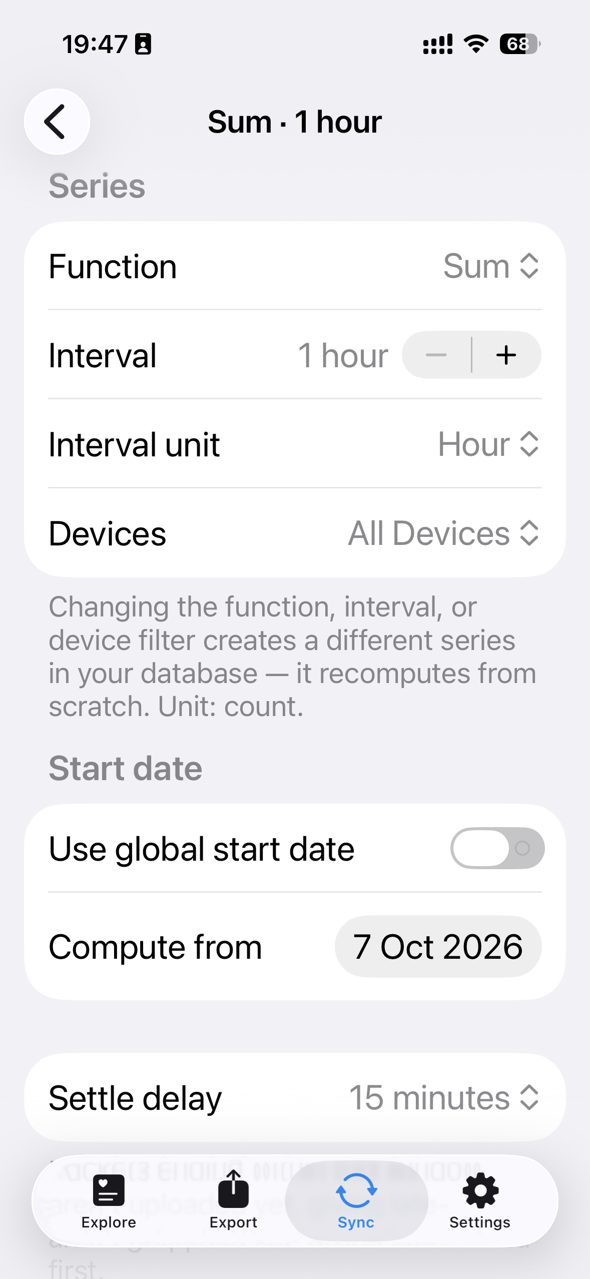
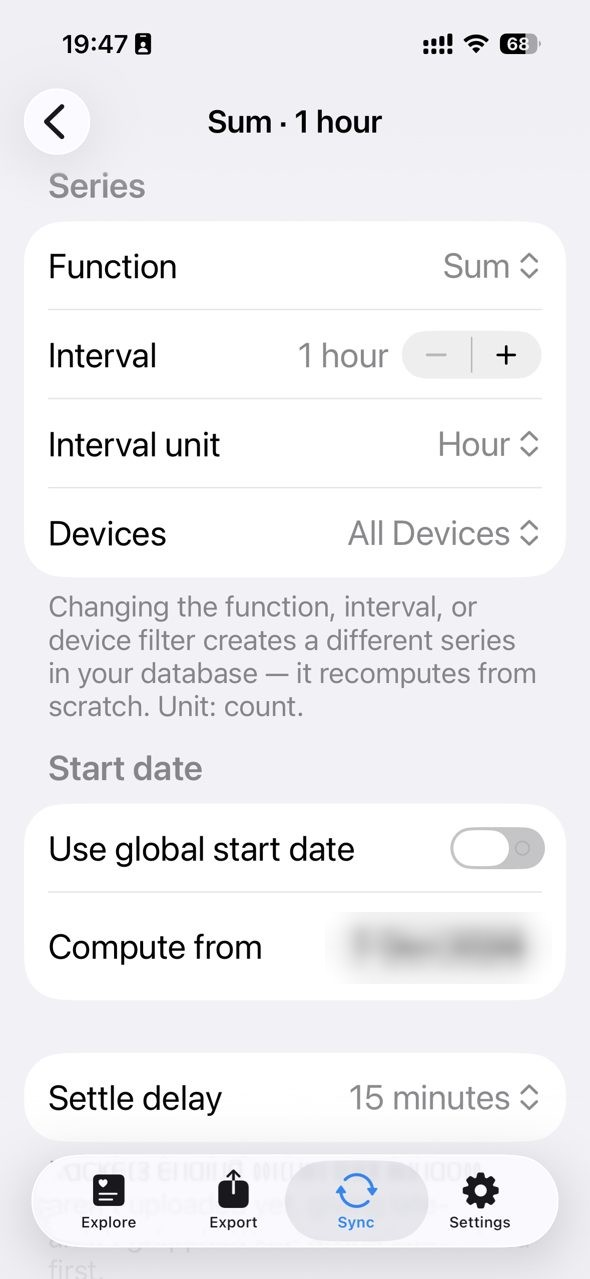
Pulse Relay v0.1.1

Changed region(s): [[0.5797, 0.7013, 0.9153, 0.7623]]

diff --git a/docs/index.html b/docs/index.html
@@ -185,8 +185,8 @@ sudo bash /opt/pulse-relay/deploy/verify.sh</code></pre></div>
 
     <h3 data-lang-only="zh">2. 连接数据库</h3>
     <h3 data-lang-only="en">2. Connect the database</h3>
-    <p data-lang-only="zh">在 PulsHealth 的「Sync → Database」里填写 <strong>Database URL</strong> = <code>https://&lt;你的域名&gt;/api/health-sync</code>，<strong>Token</strong> = 上面那串 → 点 Test Connection → Save &amp; Apply。</p>
-    <p data-lang-only="en">Under <strong>Sync → Database</strong>, enter <strong>Database URL</strong> = <code>https://&lt;your-host&gt;/api/health-sync</code> and <strong>Token</strong> = the value above → Test Connection → Save &amp; Apply.</p>
+    <p data-lang-only="zh">在 PulsHealth 的「Sync → Database」里填写 <strong>Database URL</strong> = <code>https://&lt;你的域名&gt;/api/health-sync</code>，<strong>Token</strong> = 只填 <code>PULSE_RELAY_INGEST_TOKEN=</code> 后面那串（用 <code>sudo sed -n 's/^PULSE_RELAY_INGEST_TOKEN=//p' /etc/pulse-relay/service.env</code> 查看）→ 点 Test Connection → Save &amp; Apply。</p>
+    <p data-lang-only="en">Under <strong>Sync → Database</strong>, enter <strong>Database URL</strong> = <code>https://&lt;your-host&gt;/api/health-sync</code> and <strong>Token</strong> = only the part after <code>PULSE_RELAY_INGEST_TOKEN=</code> (print it with <code>sudo sed -n 's/^PULSE_RELAY_INGEST_TOKEN=//p' /etc/pulse-relay/service.env</code>) → Test Connection → Save &amp; Apply.</p>
     <p data-lang-only="zh">也可以扫码配对：下面的命令会打印一条 <code>puls://pair?…</code> 链接和终端二维码 → 用 iPhone 相机扫一下，PulsHealth 会自动填好 URL 和 Token。（pulse-relay 是单用户的，<code>user</code> 字段固定一个 UUID 就行。）</p>
     <p data-lang-only="en">Or pair by QR: the command below prints a <code>puls://pair?…</code> link and a terminal QR code → scan it with the iPhone camera → PulsHealth opens and fills in both fields. (pulse-relay is single-user, so the <code>user</code> field is a fixed UUID.)</p>
     <div class="code-wrap"><button class="copy" type="button">Copy</button><pre><code>sudo apt install qrencode   # optional, for the QR code
@@ -347,8 +347,8 @@ claude mcp add --transport http health http://127.0.0.1:8879/mcp</code></pre></d
     <h2 data-lang-only="en">Notes</h2>
     <aside class="callout" data-lang-only="zh"><div class="icon">⚠</div><div><strong>未设置读取接口 token。</strong>同一台主机上任何有 shell 权限的人都能读到这个 server 的健康数据 → 请部署在只有你自己使用的服务器上。</div></aside>
     <aside class="callout" data-lang-only="en"><div class="icon">⚠</div><div><strong>For personal use, the read routes have no token.</strong> Anyone with a shell on the same host can read your health data → run it on a single-user server.</div></aside>
-    <aside class="callout" data-lang-only="zh"><div class="icon">⚠</div><div><strong>PulsHealth 什么时候同步，由 iOS 决定。</strong>iPhone 锁屏时 HealthKit 数据是加密的，所以夜间的数据要等第一次解锁后才会上传。我们的实测基线：白天数据到达的中位延迟约 33 分钟，夜间约 4 小时；AI 读到的心率在白天只有约 7% 的时间是 15 分钟以内的。</div></aside>
-    <aside class="callout" data-lang-only="en"><div class="icon">⚠</div><div><strong>iOS decides when PulsHealth syncs.</strong> HealthKit data is encrypted while the iPhone is locked, so overnight data arrives after the first unlock. Our baseline: median arrival lag about 33 min by day and about 4 h at night; the agent's heart rate was ≤15 min old only about 7% of the day.</div></aside>
+    <aside class="callout" data-lang-only="zh"><div class="icon">⚠</div><div><strong>PulsHealth 什么时候同步，由 iOS 决定。</strong>iPhone 锁屏时 HealthKit 数据是加密的，所以夜间的数据要等第一次解锁后才会上传。所以 AI 读到的心率通常是几十分钟前的，夜间可能是几个小时前的；请让 agent 先看 <code>age_seconds</code> 再下结论。</div></aside>
+    <aside class="callout" data-lang-only="en"><div class="icon">⚠</div><div><strong>iOS decides when PulsHealth syncs.</strong> HealthKit data is encrypted while the iPhone is locked, so overnight data arrives after the first unlock. Expect the agent's heart rate to be tens of minutes old by day and hours old overnight, so have the agent check <code>age_seconds</code> before it draws conclusions.</div></aside>
     <p data-lang-only="zh">ChatGPT 的自定义 MCP 需要设置 OpenAI Private MCP Tunnel，具体设置方法见 → <a href="https://kohaku4yz.github.io/haru-vps-mcp/" target="_blank" rel="noreferrer">haru-vps-mcp setup</a>。</p>
     <p data-lang-only="en">ChatGPT access goes through the OpenAI private MCP tunnel; for setup details see → <a href="https://kohaku4yz.github.io/haru-vps-mcp/" target="_blank" rel="noreferrer">haru-vps-mcp setup</a>.</p>
   </section>

diff --git a/tests/test_service.py b/tests/test_service.py
@@ -481,12 +481,12 @@ class StoreTests(unittest.TestCase):
             initialize_store(data_dir)
             db = data_dir / "health.sqlite3"
             rows = [
-                ("step_count", "2026-10-06T15:00:00Z", "2026-10-07", "PulsHealth aggregate:all:1:hour", "count", "aggregate", '{"bucket_end":"2026-10-06T16:00:00Z","device_filter":"all","func":"sum","interval_unit":"hour","interval_value":1,"qty":500}', "2026-10-06T18:00:00Z"),
-                ("step_count", "2026-10-06T16:00:00Z", "2026-10-07", "PulsHealth aggregate:all:1:hour", "count", "aggregate", '{"bucket_end":"2026-10-06T17:00:00Z","device_filter":"all","func":"sum","interval_unit":"hour","interval_value":1,"qty":600}', "2026-10-06T18:00:00Z"),
-                ("step_count", "2026-10-06T17:05:00Z", "2026-10-07", "Apple Watch", "count", "quantity", '{"qty":70}', "2026-10-06T18:00:00Z"),
-                ("step_count", "2026-10-06T17:15:00Z", "2026-10-07", "Apple Watch", "count", "quantity", '{"qty":30}', "2026-10-06T18:00:00Z"),
-                ("step_count", "2026-10-06T17:06:00Z", "2026-10-07", "iPhone", "count", "quantity", '{"qty":60}', "2026-10-06T18:00:00Z"),
-                ("step_count", "2026-10-06T17:16:00Z", "2026-10-07", "iPhone", "count", "quantity", '{"qty":25}', "2026-10-06T18:00:00Z"),
+                ("step_count", "2026-10-07T00:00:00Z", "2026-10-07", "PulsHealth aggregate:all:1:hour", "count", "aggregate", '{"bucket_end":"2026-10-07T01:00:00Z","device_filter":"all","func":"sum","interval_unit":"hour","interval_value":1,"qty":500}', "2026-10-07T03:00:00Z"),
+                ("step_count", "2026-10-07T01:00:00Z", "2026-10-07", "PulsHealth aggregate:all:1:hour", "count", "aggregate", '{"bucket_end":"2026-10-07T02:00:00Z","device_filter":"all","func":"sum","interval_unit":"hour","interval_value":1,"qty":600}', "2026-10-07T03:00:00Z"),
+                ("step_count", "2026-10-07T02:05:00Z", "2026-10-07", "Apple Watch", "count", "quantity", '{"qty":70}', "2026-10-07T03:00:00Z"),
+                ("step_count", "2026-10-07T02:15:00Z", "2026-10-07", "Apple Watch", "count", "quantity", '{"qty":30}', "2026-10-07T03:00:00Z"),
+                ("step_count", "2026-10-07T02:06:00Z", "2026-10-07", "iPhone", "count", "quantity", '{"qty":60}', "2026-10-07T03:00:00Z"),
+                ("step_count", "2026-10-07T02:16:00Z", "2026-10-07", "iPhone", "count", "quantity", '{"qty":25}', "2026-10-07T03:00:00Z"),
             ]
             with sqlite3.connect(db) as conn:
                 conn.executemany(
@@ -495,18 +495,18 @@ class StoreTests(unittest.TestCase):
                 )
                 conn.commit()
 
-            live = health_day(data_dir, "2026-10-07", now=datetime(2026, 10, 7, 3, 30, tzinfo=timezone.utc))
+            live = health_day(data_dir, "2026-10-07", now=datetime(2026, 10, 7, 12, 30, tzinfo=timezone.utc))
             self.assertEqual(live["activity"]["step_count"]["qty"], 1200)
             self.assertEqual(live["activity"]["step_count"]["buckets"], 4)
 
             with sqlite3.connect(db) as conn:
                 conn.execute(
                     "INSERT INTO metric_samples(metric,observed_at,local_date,source,units,kind,payload_json,received_at) VALUES (?,?,?,?,?,?,?,?)",
-                    ("step_count", "2026-10-06T15:00:00Z", "2026-10-07", "PulsHealth aggregate:all:1:day", "count", "aggregate", '{"bucket_end":"2026-10-07T15:00:00Z","device_filter":"all","func":"sum","interval_unit":"day","interval_value":1,"qty":1180}', "2026-10-07T16:00:00Z"),
+                    ("step_count", "2026-10-07T00:00:00Z", "2026-10-07", "PulsHealth aggregate:all:1:day", "count", "aggregate", '{"bucket_end":"2026-10-08T00:00:00Z","device_filter":"all","func":"sum","interval_unit":"day","interval_value":1,"qty":1180}', "2026-10-08T01:00:00Z"),
                 )
                 conn.commit()
 
-            final = health_day(data_dir, "2026-10-07", now=datetime(2026, 10, 8, 1, 5, tzinfo=timezone.utc))
+            final = health_day(data_dir, "2026-10-07", now=datetime(2026, 10, 8, 10, 5, tzinfo=timezone.utc))
             self.assertEqual(final["activity"]["step_count"]["qty"], 1180)
             self.assertEqual(final["activity"]["step_count"]["buckets"], 1)
 

diff --git a/tests/test_core_without_extensions.py b/tests/test_core_without_extensions.py
@@ -22,7 +22,7 @@ PROBE = textwrap.dedent(
         thread = threading.Thread(target=server.serve_forever, daemon=True)
         thread.start()
         try:
-            for path in ("/v1/health/heartbeat", "/v1/health/day", "/v1/health/not-installed-a", "/v1/health/not-installed-b"):
+            for path in ("/v1/health/heartbeat", "/v1/health/day", "/v1/health/demo"):
                 conn = http.client.HTTPConnection("127.0.0.1", server.server_address[1], timeout=3)
                 conn.request("GET", path)
                 response = conn.getresponse()
@@ -58,8 +58,8 @@ def copy_core(tmp: str, extensions: dict[str, str]) -> None:
 
 def probe(tmp: str, *paths: str) -> subprocess.CompletedProcess[str]:
     script = PROBE.replace(
-        '("/v1/health/heartbeat", "/v1/health/day", "/v1/health/not-installed-a", "/v1/health/not-installed-b")',
-        repr(("/v1/health/heartbeat", "/v1/health/day", "/v1/health/not-installed-a", "/v1/health/not-installed-b", *paths)),
+        '("/v1/health/heartbeat", "/v1/health/day", "/v1/health/demo")',
+        repr(("/v1/health/heartbeat", "/v1/health/day", "/v1/health/demo", *paths)),
     )
     return subprocess.run(
         [sys.executable, "-I", "-c", f"import sys; sys.path.insert(0, {tmp!r})\n" + script],
@@ -79,8 +79,7 @@ class CoreWithoutExtensionsTests(unittest.TestCase):
         lines = set(result.stdout.splitlines())
         self.assertIn("/v1/health/heartbeat 200", lines)
         self.assertIn("/v1/health/day 200", lines)
-        self.assertIn("/v1/health/not-installed-a 404", lines)
-        self.assertIn("/v1/health/not-installed-b 404", lines)
+        self.assertIn("/v1/health/demo 404", lines)
         self.assertIn("extensions_loaded False", lines)
 
     def test_any_installed_extension_is_discovered(self):
@@ -107,6 +106,7 @@ class CoreWithoutExtensionsTests(unittest.TestCase):
     def test_core_modules_do_not_name_extension_code(self):
         for path in (ROOT / "pulse_relay").glob("*.py"):
             text = path.read_text()
+            self.assertNotIn("from .extensions", text, path.name)
 
 
 if __name__ == "__main__":

diff --git a/pulse_relay/mcp_server.py b/pulse_relay/mcp_server.py
@@ -24,7 +24,7 @@ DEFAULT_PATH: Final[str] = "/mcp"
 DEFAULT_HEALTH_SERVICE_URL: Final[str] = "http://127.0.0.1:8768"
 _LOOPBACK_HOSTS: Final[frozenset[str]] = frozenset({"127.0.0.1", "localhost", "::1"})
 
-INSTRUCTIONS = """Read-only owner health context backed by the shared pulse-relay.
+INSTRUCTIONS = """Read-only owner health context backed by the pulse-relay server.
 Use health_detail for one local calendar day. With no date it returns the latest day with data.
 Use heartbeat for the latest available heart-rate sample. Always inspect age_seconds (when the sample
 was measured) and freshness_seconds (when the service last synced) before describing a value as current.

diff --git a/README.md b/README.md
@@ -18,6 +18,8 @@ Apple Watch / iPhone (HealthKit)
 
 ## Quick start
 
+Needs a Linux host with systemd, Python ≥ 3.11 with `venv` (`python3-venv` on Debian/Ubuntu), `curl` and `ss` (iproute2). `qrencode` is optional, for the pairing QR code.
+
 ```bash
 # 1. Install the server (root-owned clone; tests run before the swap, rollback on failure)
 sudo git clone https://github.com/kohaku4yz/pulse-relay /root/pulse-relay
